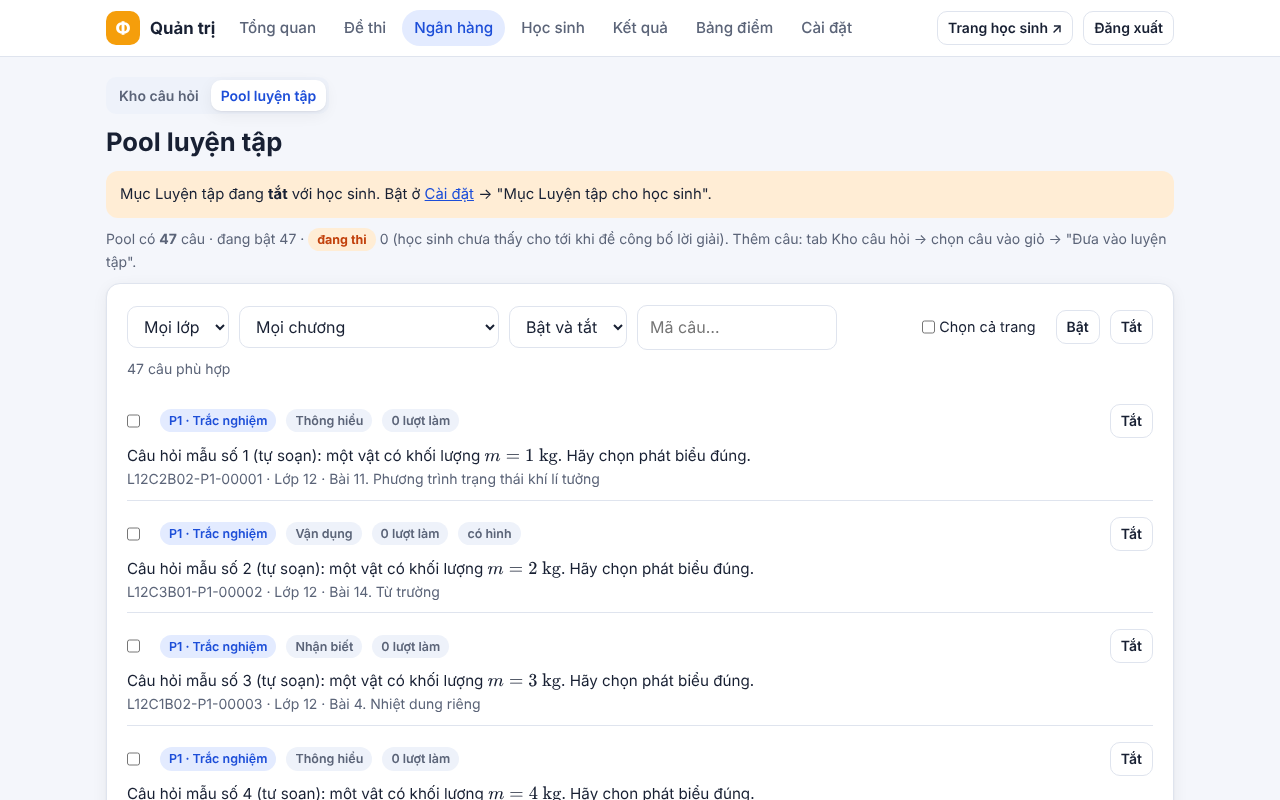
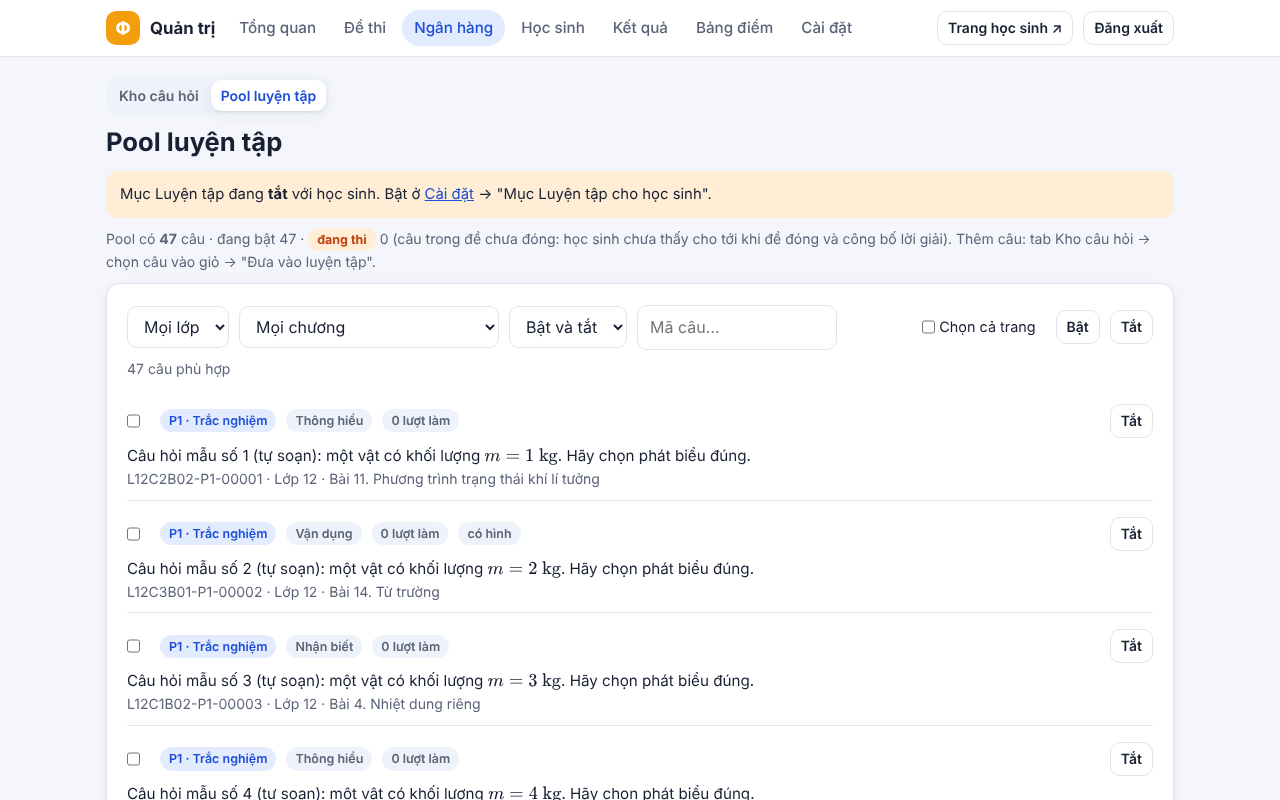
Pha 4: soát code vòng 2 (ĐẠT); kiểm thử vòng 2 đang chạy (lưu tạm)
Claude-Session: https://claude.ai/code/session_01BBCuQ1sSV2ojmqNhomXWAj

Changed region(s): [[0.3125, 0.2812, 0.9062, 0.3125], [0.0938, 0.3125, 0.2812, 0.3438]]

diff --git a/tests/pha4-kiem-thu.test.js b/tests/pha4-kiem-thu.test.js
@@ -255,9 +255,10 @@ t('TC-4.3 practiceStart TU_TAO 10–2–3 trong một bài: đúng 15 câu, đú
   const s = ok(practice(w, null, { kieu: 'TU_TAO', chuong: [ch], bai: [bai], so: { TN: 10, DS: 2, TL: 3 }, phut: 20 }));
   const tp = decodeTok(s.attemptToken).p;
   info(`5 lần: 15 câu (10-2-3), 1200 s; khóa trong token: ${Object.keys(tp).join(',')} (qids = mã kho, chỉ mã hóa base64)`);
-  // chương + bài cùng gửi: máy chủ lấy HỢP (cả chương) — ghi nhận, e2e kiểm giao diện gửi gì khi chọn 1 bài
+  // chương + bài cùng gửi: vòng 2 (N-1) lấy GIAO — xem mục Vòng 2
   const su = ok(practice(w, null, { kieu: 'TU_TAO', chuong: [ch], bai: [bai], so: { TN: 10, DS: 2, TL: 3 }, phut: 20 }));
-  info('gửi chuong=[Chương I] + bai=[Bài 1]: ' + su.questions.filter((q) => by.get(q.noiDung).bai !== bai).length + '/15 câu thuộc bài khác của chương (ngữ nghĩa HỢP)');
+  const outside = su.questions.filter((q) => by.get(q.noiDung).bai !== bai).length;
+  info('gửi chuong=[Chương I] + bai=[Bài 1]: ' + outside + '/15 câu thuộc bài khác của chương');
   // chỉ chọn chương
   const s2 = ok(practice(w, null, { kieu: 'TU_TAO', chuong: [ch], bai: [], so: { TN: 8, DS: 0, TL: 0 }, phut: 10 }));
   assert(s2.questions.every((q) => by.get(q.noiDung).chuong === ch));
@@ -739,6 +740,130 @@ t('TC-4.14 Sửa đề sau khi HS làm (chèn câu lên đầu): câu nhập tay
   setExam(w2, e2, { trangThai: 'DONG' }, (qs) => qs.map((q, i) => (i === 0 ? Object.assign({}, q, { noiDung: 'Câu tay P đã sửa đề bài (tự soạn).' }) : q)));
   const a2 = contents(ok(practice(w2, null, { kieu: 'CAU_SAI' })));
   assert.deepStrictEqual(a2, ['Câu tay Q (tự soạn).'], 'sửa chữ câu tay: ' + JSON.stringify(a2));
+});
+
+
+// ======================= Vòng 2 (f228081) =======================
+console.log('\nVòng 2:');
+const MSG_HIDE = /Đáp án và lời giải sẽ hiện khi đề thi đó kết thúc/;
+t('V2 Xem lại bài luyện có câu đang bị chặn: HS thấy dòng "…sẽ hiện khi đề thi đó kết thúc", điểm giữ nguyên; GV vẫn thấy lời giải; đóng đề thì hiện lại', () => {
+  const w = world({ rows: rowsBai14(5) });
+  const X = pool(w)[0];
+  const s = ok(practice(w, null, { kieu: 'TU_TAO', chuong: [], bai: [], so: { TN: 5 }, phut: 10 }));
+  const r = ok(w.S(null, 'submitExam', { attemptToken: s.attemptToken, answers: answer(w, s, (q) => q.noiDung !== X.noiDung) }));
+  const eid = saveExam(w, { tieuDe: 'Đề NGAY đang mở chứa X', trangThai: 'MO', hienLoiGiai: 'NGAY' }, toQuestions(w, [X.maKho]));
+  const v = ok(w.S(null, 'getResult', { resultId: r.id }));
+  const it = v.items.find((x) => x.noiDung === X.noiDung);
+  assert(it, 'không còn đề bài của X');
+  assert(!it.loiGiai && (it.dapAn == null || it.dapAn === ''), 'HS vẫn thấy đáp án/lời giải X');
+  assert(MSG_HIDE.test(JSON.stringify(it)), 'thiếu dòng báo: ' + JSON.stringify(it).slice(0, 200));
+  assert(it.answer != null && it.answer !== '', 'mất câu trả lời của HS');
+  assert.strictEqual(v.diem, r.diem); assert.strictEqual(v.soCauDung, r.soCauDung);
+  const others = v.items.filter((x) => x !== it);
+  assert(others.every((x) => x.loiGiai), 'câu khác mất lời giải');
+  const vt = ok(w.A('getResult', { resultId: r.id }));
+  const itT = vt.items.find((x) => x.noiDung === X.noiDung);
+  assert(itT && itT.loiGiai && itT.dapAn, 'GV không thấy lời giải');
+  setExam(w, eid, { trangThai: 'DONG' });
+  const v2 = ok(w.S(null, 'getResult', { resultId: r.id }));
+  const it2 = v2.items.find((x) => x.noiDung === X.noiDung);
+  assert(it2.loiGiai && it2.dapAn && !MSG_HIDE.test(JSON.stringify(it2)), 'đóng đề mà chưa hiện lại lời giải');
+  info(`HS: "${(JSON.stringify(it).match(/[^"]*kết thúc[^"]*/) || [''])[0]}"; điểm ${v.diem} = ${r.diem}; GV thấy lời giải; đóng đề → HS thấy lời giải`);
+});
+
+t('V2 "Luyện câu đã sai" chỉ lấy câu của đề đã đóng (NGAY đang mở: không; hết hạn hoặc đóng: có)', () => {
+  const w = world({ rows: K.bigRows(30) });
+  const eOpen = saveExam(w, { tieuDe: 'Đề NGAY mở', trangThai: 'MO', hienLoiGiai: 'NGAY' }, [manual('Câu tay đề mở (tự soạn).')]);
+  const eExp = saveExam(w, { tieuDe: 'Đề sẽ hết hạn', trangThai: 'MO', hienLoiGiai: 'SAU_HAN' }, [manual('Câu tay đề hết hạn (tự soạn).')]);
+  doExam(w, null, eOpen, () => true); doExam(w, null, eExp, () => true);
+  const r0 = practice(w, null, { kieu: 'CAU_SAI' });
+  const set0 = r0.ok ? contents(r0.data) : [];
+  assert(!set0.includes('Câu tay đề mở (tự soạn).') && !set0.includes('Câu tay đề hết hạn (tự soạn).'), 'có câu của đề chưa đóng: ' + set0);
+  setExam(w, eExp, { ketThuc: new Date(Date.now() - 60e3).toISOString() });
+  setExam(w, eOpen, { trangThai: 'DONG' });
+  const set1 = contents(ok(practice(w, null, { kieu: 'CAU_SAI' })));
+  assert(set1.includes('Câu tay đề mở (tự soạn).') && set1.includes('Câu tay đề hết hạn (tự soạn).'), 'đề đã đóng/hết hạn mà chưa có câu: ' + set1);
+  info(`đang mở: ${r0.ok ? set0.length + ' câu' : '"' + r0.error + '"'}; sau khi đóng + hết hạn: ${set1.length} câu`);
+});
+
+t('V2 (N-1) Chọn cả chương và bài → lấy GIAO', () => {
+  const w = world({ rows: K.bigRows(300) });
+  const by = new Map(pool(w).map((p) => [p.noiDung, p]));
+  const s = ok(practice(w, null, { kieu: 'TU_TAO', chuong: ['Chương I. Vật lí nhiệt'], bai: ['Bài 1. Cấu trúc của chất. Sự chuyển thể'], so: { TN: 10, DS: 2, TL: 3 }, phut: 20 }));
+  assert(s.questions.every((q) => by.get(q.noiDung).bai === 'Bài 1. Cấu trúc của chất. Sự chuyển thể'), 'có câu ngoài bài');
+  const x = practice(w, null, { kieu: 'TU_TAO', chuong: ['Chương II. Khí lí tưởng'], bai: ['Bài 1. Cấu trúc của chất. Sự chuyển thể'], so: { TN: 5 }, phut: 10 });
+  info('chương II + bài thuộc chương I: ' + (x.ok ? x.data.questions.length + ' câu' : '"' + x.error + '"'));
+  assert(!x.ok || x.data.questions.length === 0, 'giao rỗng mà vẫn ra câu');
+});
+
+t('V2 (N-2) Tắt luyện tập vẫn xem được bài luyện cũ (myResults luyen + getResult LT)', () => {
+  const w = world();
+  const s = ok(practice(w, null, { kieu: 'TU_TAO', chuong: [], bai: [], so: { TN: 5 }, phut: 10 }));
+  const r = ok(w.S(null, 'submitExam', { attemptToken: s.attemptToken, answers: answer(w, s) }));
+  K.setSetting(w.g, { CHO_LUYEN_TAP: 'KHONG' });
+  const l = ok(w.S(null, 'myResults', { loai: 'luyen' }));
+  const v = ok(w.S(null, 'getResult', { resultId: r.id }));
+  assert(l.some((x) => x.id === r.id) && v.items.every((x) => x.loiGiai));
+  assert(OFF_MSG.test(w.S(null, 'practiceMeta').error));
+});
+
+t('V2 (R-6) Pool vượt 3 000 câu đang bật bị từ chối, không ghi gì', () => {
+  const w = world({ rows: K.bigRows(3010), sync: false });
+  const ms = w.kho.rows.map((r) => r[0]);
+  w.g._resetStats();
+  const r1 = w.A('adminPracticeSync', { filter: {}, mode: 'them' });
+  const wr1 = w.g._stats.writes.LuyenTap || 0;
+  assert(!r1.ok, '3 010 câu được nhận'); assert.strictEqual(wr1, 0, 'đã ghi ' + wr1 + ' lần'); assert.strictEqual(w.g._sheets.LuyenTap.getLastRow(), 1);
+  info('3 010 câu: "' + r1.error + '"');
+  sync(w, { maKho: ms.slice(0, 2990), mode: 'them' });
+  assert.strictEqual(pool(w).length, 2990);
+  w.g._resetStats();
+  const r2 = w.A('adminPracticeSync', { maKho: ms.slice(2990, 3010), mode: 'them' });
+  assert(!r2.ok, '2 990 + 20 được nhận'); assert.strictEqual(w.g._stats.writes.LuyenTap || 0, 0); assert.strictEqual(pool(w).length, 2990);
+  // tắt 30 câu rồi thêm 20 → 2 980 bật → được
+  ok(w.A('adminPracticeToggle', { maKho: ms.slice(0, 30), bat: 'KHONG' }));
+  const r3 = sync(w, { maKho: ms.slice(2990, 3010), mode: 'them' });
+  assert.strictEqual(r3.them, 20); assert.strictEqual(pool(w).filter((p) => p.bat === 'CO').length, 2980);
+  // "thay" bằng đúng 3 000 câu → được
+  const r4 = w.A('adminPracticeSync', { maKho: ms.slice(0, 3000), mode: 'thay' });
+  info(`2 990 + 20: "${r2.error}"; tắt 30 rồi thêm 20: them=${r3.them}; "thay" 3 000 câu: ${r4.ok ? 'được' : '"' + r4.error + '"'}`);
+});
+
+t('V2 (R-5) Nộp lại cùng token không thêm hàng; HS khác nộp token không ghi', () => {
+  const w = world({ classes: ['12A2'] });
+  const s = ok(practice(w, null, { kieu: 'TU_TAO', chuong: [], bai: [], so: { TN: 5 }, phut: 10 }));
+  const a = ok(w.S(null, 'submitExam', { attemptToken: s.attemptToken, answers: answer(w, s) }));
+  const n = KQLT(w);
+  for (let i = 0; i < 3; i++) { const b = w.S(null, 'submitExam', { attemptToken: s.attemptToken, answers: {} }); if (b.ok) assert.strictEqual(b.data.id, a.id); }
+  assert(!w.S('12A2', 'submitExam', { attemptToken: s.attemptToken, answers: {} }).ok);
+  assert.strictEqual(KQLT(w), n); assert(a.id.length > 20, 'mã bài ' + a.id);
+  info('mã bài mới: ' + a.id + ' (' + a.id.length + ' ký tự)');
+});
+
+t('V2 Mã bài cũ (6 ký tự): bài luyện và bài thi dạng cũ vẫn mở được', () => {
+  const w = world();
+  // bài luyện: đổi mã bài trong sheet về dạng cũ LT + yyMMddHHmmss + 6 ký tự
+  const s = ok(practice(w, null, { kieu: 'TU_TAO', chuong: [], bai: [], so: { TN: 5 }, phut: 10 }));
+  const r = ok(w.S(null, 'submitExam', { attemptToken: s.attemptToken, answers: answer(w, s) }));
+  const d = w.g._sheets.KetQuaLuyenTap._data(); const ci = d[0].indexOf('Mã bài');
+  const oldId = 'LT261119140624' + '4C9BC4';
+  d[d.length - 1][ci] = oldId;
+  const v = ok(w.S(null, 'getResult', { resultId: oldId }), 'getResult bài luyện mã cũ');
+  assert.strictEqual(v.items.length, 5); assert(v.items.every((x) => x.loiGiai));
+  assert(ok(w.S(null, 'myResults', { loai: 'luyen' })).some((x) => x.id === oldId));
+  // bài thi do máy chủ 1.0.0 ghi (mã cũ, KetQua thiếu cột Mục tiêu)
+  const path = require('path');
+  const old = createContext({ quiet: true, codePath: path.join(__dirname, 'fixtures', 'Code-1.0.0.gs') }); old.setup();
+  const ot = ok(old.call('loginPin', { studentId: 'HS0001', pin: '0101' })).token;
+  const os = ok(old.call('startExam', { token: ot, examId: 'DEMAU' }));
+  const orr = ok(old.call('submitExam', { token: ot, attemptToken: os.attemptToken, answers: { 1: 'C' } }));
+  const g2 = createContext({ quiet: true }); g2.setup();
+  g2._sheets.KetQua._setData(old._sheets.KetQua._data());
+  const t2 = ok(g2.call('loginPin', { studentId: 'HS0001', pin: '0101' })).token;
+  const ov = ok(g2.call('getResult', { token: t2, resultId: orr.id }), 'getResult bài thi 1.0.0');
+  assert.strictEqual(ov.diem, orr.diem);
+  assert(ok(g2.call('myResults', { token: t2 })).some((x) => x.id === orr.id));
+  info(`bài luyện mã cũ ${oldId}: mở được, 5 câu có lời giải; bài thi 1.0.0 ${orr.id}: mở được, điểm ${ov.diem}`);
 });
 
 // ---------- tổng ----------

diff --git a/tests/pha4-kiem-thu.e2e.js b/tests/pha4-kiem-thu.e2e.js
@@ -199,6 +199,7 @@ async function runNew(browser) {
     const resText = await mainText(st);
     const nLG = (resText.match(/Lời giải mẫu/g) || []).length;
     const hash = await st.evaluate(() => location.hash);
+    const firstResultId = hash.replace('#/ket-qua/', '');
     verdict('TC-4.4 (giao diện)', f.filled === 10 && score === expectTxt && /#\/ket-qua\/LT/.test(hash) && /Luyện tập/.test(resText) && /không tính vào bảng xếp hạng/.test(resText),
       `điền ${f.filled}/10; điểm "${score}" (tính tay ${f.goc}/${f.max} → ${expectTxt}); ${hash}; nhãn "Luyện tập · … không tính vào bảng xếp hạng"`);
     // Xem lời giải: mở các câu (bấm "Câu cần xem lại" nếu cần) → đếm lời giải hiển thị
@@ -278,9 +279,21 @@ async function runNew(browser) {
     const ad = await actx.newPage(); watchErrors(ad, errors, 'admin'); await routeCdn(ad);
     const dialogs = []; ad.on('dialog', (d) => { dialogs.push(d.message()); d.accept(); });
     // Đề SAU_HAN đang mở chứa X (một câu trong pool)
-    const X = 'L12C3B01-P1-00008';
+    // X = một câu P1 của bài luyện đầu tiên (để thử luôn xem lại bài cũ khi X đang thi — vòng 2)
+    const X = BY_ND.get(s1.questions.find((q) => q.loai === 'TN').noiDung)[0];
+    const xText = s1.questions.find((q) => q.loai === 'TN').noiDung;
     const xq = (await api(B, 'adminBankToQuestions', { token: tTok, maKho: [X] })).questions;
     await api(B, 'adminSaveExam', { token: tTok, exam: { tieuDe: 'Đề đang thi có X', lop: '', thoiGian: 15, trangThai: 'MO', hienLoiGiai: 'SAU_HAN' }, questions: xq });
+    // Vòng 2: HS mở lại bài luyện đầu tiên trong lúc X đang thi
+    await st.goto(B + '/#/ket-qua/' + firstResultId); await st.waitForSelector('.score-ring'); await st.waitForTimeout(LAT + 600);
+    const rvTxt = await mainText(st);
+    const rvScore = await st.$eval('.score-ring b', (e) => e.textContent.trim());
+    await st.evaluate(() => { const x = [...document.querySelectorAll('main *')].find((e) => /sẽ hiện khi đề thi đó kết thúc/.test(e.textContent) && e.children.length < 4); if (x) x.scrollIntoView({ block: 'center' }); });
+    await shot(st, '18-xem-lai-cau-dang-thi');
+    const nLGrv = (rvTxt.match(/Lời giải mẫu/g) || []).length;
+    verdict('V2 xem lại câu đang thi (giao diện)', /Đáp án và lời giải sẽ hiện khi đề thi đó kết thúc/.test(rvTxt) && rvScore === expectTxt && nLGrv === 9,
+      `bài luyện cũ khi X đang thi: có dòng "…sẽ hiện khi đề thi đó kết thúc": ${/sẽ hiện khi đề thi đó kết thúc/.test(rvTxt)}; điểm "${rvScore}" (lúc nộp ${expectTxt}); ${nLGrv}/10 lời giải hiện`);
+    void xText;
     const meta1 = await api(B, 'practiceMeta', { token: sTok });
     const n1 = meta1.cay.reduce((s, c) => s + c.dem.TN + c.dem.DS + c.dem.TL, 0);
     await adminLogin(ad, B, srv.pw);
@@ -330,6 +343,9 @@ async function runNew(browser) {
     await api(B, 'adminSaveExam', { token: tTok, exam: Object.assign({}, full.exam, { trangThai: 'DONG' }), questions: full.questions });
     const n5 = (await api(B, 'practiceMeta', { token: sTok })).cay.reduce((s, c) => s + c.dem.TN + c.dem.DS + c.dem.TL, 0);
     verdict('TC-4.13 (giao diện)', n5 === n2 + 1, `đóng đề → HS thấy ${n5} câu (X trở lại)`);
+    await st.goto(B + '/#/'); await st.goto(B + '/#/ket-qua/' + firstResultId); await st.waitForSelector('.score-ring'); await st.waitForTimeout(LAT + 600);
+    const rv2 = await mainText(st);
+    verdict('V2 xem lại câu đang thi (giao diện)', !/sẽ hiện khi đề thi đó kết thúc/.test(rv2) && (rv2.match(/Lời giải mẫu/g) || []).length === 10, `đóng đề → mở lại bài: ${(rv2.match(/Lời giải mẫu/g) || []).length}/10 lời giải, không còn dòng báo`);
     await actx.close();
     verdict('Không lỗi JS', errors.length === 0, errors.length ? errors.join(' | ').slice(0, 500) : 'không có pageerror / console error (HS + GV)');
     void tBefore;
@@ -343,6 +359,13 @@ async function runOff(browser) {
   const srv = await startServer(PORT_OFF, { LATENCY_MS: String(LAT), PRACTICE: '0' });
   try {
     const B = srv.base;
+    // Vòng 2 (N-2): có sẵn 1 bài luyện làm khi còn bật, rồi giáo viên tắt
+    const tTok = (await api(B, 'loginAdminPassword', { password: srv.pw })).token;
+    await api(B, 'adminSaveSettings', { token: tTok, settings: { CHO_LUYEN_TAP: 'CO' } });
+    const sTok = (await api(B, 'loginPin', { studentId: 'HS0001', pin: '0101' })).token;
+    const ps = await api(B, 'practiceStart', { token: sTok, kieu: 'TU_TAO', bai: [], so: { TN: 5 }, phut: 10 });
+    const pr = await api(B, 'submitExam', { token: sTok, attemptToken: ps.attemptToken, answers: {} });
+    await api(B, 'adminSaveSettings', { token: tTok, settings: { CHO_LUYEN_TAP: 'KHONG' } });
     const ctx = await browser.newContext({ viewport: { width: 1280, height: 800 }, deviceScaleFactor: 1 });
     const st = await ctx.newPage(); watchErrors(st, errors, 'hs-off'); await routeCdn(st);
     const log = netLog(st);
@@ -360,8 +383,17 @@ async function runOff(browser) {
     const pages = ['#/', '#/lich-su', '#/thong-ke', '#/bang-xep-hang'];
     const res = [];
     for (const h of pages) { const e0 = errors.length; await st.goto(B + '/' + h); await st.waitForTimeout(LAT + 700); res.push(h + ':' + (errors.length === e0 && (await mainText(st)).length > 20 ? 'ok' : 'LỖI')); }
-    const hist = !!(await st.$('#histSeg'));
-    verdict('TC-4.10 (giao diện)', res.every((x) => /ok$/.test(x)), `các trang khác: ${res.join(' ')}; Lịch sử có bộ lọc Đề thi/Luyện tập: ${hist}`);
+    verdict('TC-4.10 (giao diện)', res.every((x) => /ok$/.test(x)), `các trang khác: ${res.join(' ')}`);
+    await st.goto(B + '/#/lich-su'); await st.waitForTimeout(LAT + 800);
+    const histSegOff = !!(await st.$('#histSeg [data-h="luyen"]'));
+    let oldOk = false; let oldTxt = '';
+    if (await st.$('#histSeg [data-h="luyen"]')) {
+      await st.click('#histSeg [data-h="luyen"]'); await st.waitForTimeout(LAT + 700);
+      await shot(st, '19-tat-luyen-tap-lich-su');
+      const link = await st.$(`a[href="#/ket-qua/${pr.id}"]`);
+      if (link) { await link.click(); await st.waitForSelector('.score-ring'); await st.waitForTimeout(LAT + 500); oldTxt = await mainText(st); oldOk = (oldTxt.match(/Lời giải mẫu/g) || []).length === 5; }
+    }
+    verdict('V2 tắt luyện tập vẫn xem bài cũ (giao diện)', histSegOff && oldOk, `Lịch sử có bộ lọc Đề thi/Luyện tập: ${histSegOff}; mở bài luyện cũ ${pr.id} từ Lịch sử → ${(oldTxt.match(/Lời giải mẫu/g) || []).length}/5 lời giải`);
     const ad = await ctx.newPage(); watchErrors(ad, errors, 'admin-off'); await routeCdn(ad);
     await adminLogin(ad, B, srv.pw);
     await ad.click('a[data-nav="bank"]'); await ad.waitForTimeout(LAT + 900);

diff --git a/docs/bao-cao/pha-4-soat.md b/docs/bao-cao/pha-4-soat.md
@@ -128,3 +128,63 @@ Có 1 phát hiện **Nặng** (R-1). R-1 do đặc tả chưa nói rõ trường
 2. Sửa R-2; thêm test xem lại bài luyện cũ khi câu đang bị chặn.
 3. R-3: đọc theo học sinh hoặc đệm theo học sinh, hoặc ít nhất đo và ghi rủi ro.
 4. R-5 (một dòng). R-4 và R-6 tùy chọn.
+
+---
+
+## Vòng 2
+
+Diff soát: `git diff 39eff7f..f228081` (commit `f228081`). Đặc tả bổ sung ở `46739d8`: câu chỉ vào luyện tập khi đề **đã đóng** và `canReveal_` = true; khi xem lại bài luyện thì ẩn lời giải của câu đang bị chặn. Ngày: 19/11/2026.
+
+### Tóm tắt cho giáo viên (vòng 2)
+- Đã sửa lỗ hổng chính. Câu của đề còn mở (kể cả đề để "Hiện lời giải ngay") không còn xuất hiện trong Luyện tập. Học sinh xem lại bài luyện cũ cũng không thấy đáp án của câu đang nằm trong đề chưa đóng.
+- Đề không đặt giờ đóng thì câu của đề sẽ ẩn khỏi Luyện tập cho tới khi thầy bấm đóng đề. Tab Pool có nhãn "đang thi" để thầy biết.
+- Còn một điểm nên theo dõi khi phát hành: học sinh đã làm rất nhiều bài luyện thì trang Luyện tập có thể mở chậm hơn. Điểm này cần đo trên máy chủ thật ở Pha 6.
+
+### Kết luận vòng 2: **ĐẠT**
+Không còn phát hiện Nặng. Có 1 phát hiện Vừa mới (V2-1, hiệu năng, cần đo ở Pha 6) và 2 phát hiện Nhẹ.
+
+### Đã kiểm lại
+- **Chạy lại `scratchpad/soat4/repro.js`**:
+  - A: đề "NGAY" đang mở → `blocked[X] = true`; X xuất hiện **0/30** lần.
+  - B: xem lại bài luyện cũ khi X nằm trong đề SAU_HAN đang mở → không có `dapAn`, không có `loiGiai`.
+  - C: `practiceMeta`, `practiceStart`, nộp bài không còn đọc cả trang `KetQuaLuyenTap` hay `KetQua`.
+- **Test**:
+  - Đạt: `pha4` 22/22; `pha4-kiem-thu.test.js` 26/26 (file của người kiểm thử, chỉ chạy, không sửa); `backend` 13/13, `importer`, `bank` 30/30, `cache` 17/17, `pha1-kiem-thu` 29/29, `pha2-kiem-thu` 31/31, `common-cache` 5/5.
+  - `pha4.e2e.js` (cổng 8795, ảnh lưu vào thư mục nháp): đạt cả máy chủ mới và 1.0.0.
+  - `pha4.test.js` chập chờn ở TC-4.6: 1 lần trượt trong 16 lần chạy (V2-2).
+
+| Mã | Trạng thái | Ghi chú |
+|---|---|---|
+| R-1 / K-1 (Nặng) | **Đã sửa** | `examLocked_` (`Code.gs` 1978–1987): chỉ mở khi `canReveal_` **và** (`DONG` hoặc `MO` đã quá `ketThuc`). Đề NHAP, không có trạng thái, chưa mở, đang mở (mọi chế độ), "Không hiện" đều chặn. Đệm `blockedBankIds_` vẫn hết hạn ở mốc `batDau`/`ketThuc` gần nhất, đủ cho trường hợp đề hết hạn. CAU_SAI (`open()`) và `buildPracticeView_` dùng cùng hàm này. Đúng đặc tả bổ sung. |
+| R-2 / K-2 (Vừa) | **Đã sửa** | `buildPracticeView_`: với học sinh, câu có mã kho đang bị chặn **lúc xem**, hoặc câu đề thi của đề còn khóa, thì đặt `an = true` và không gửi `dapAn`/`loiGiai`. Giáo viên vẫn thấy. Kết quả trả về ngay khi nộp cũng đi qua hàm này. `common.js` hiện ghi chú qua `esc()`, phương án qua `rich()`. Học sinh vẫn biết mình đúng hay sai qua điểm từng câu, điều này đúng đặc tả ("điểm vẫn chấm"). |
+| R-3 (Vừa) | **Đã sửa, kèm V2-1** | `rowsWhere_` đọc cột khóa rồi chỉ đọc các hàng khớp. Đã so trên shim: kết quả **trùng hoàn toàn** với `readTable_(…,{fresh:true}).filter(...)` (102 hàng xen kẽ trong 3 000 hàng). Hàm này chỉ đọc, không dùng ở đường ghi theo số hàng. `afterWrite_` xóa bộ nhớ `__si_`/`__rw_` của trang vừa ghi. `practiceResultExists_` bỏ `__si_` và đọc lại `lastRow` trong khóa nên kiểm trùng vẫn đúng. `practiceUsage_` chỉ đọc cột Chi tiết. |
+| R-4 (Nhẹ) | Chấp nhận | Không đổi. |
+| R-5 (Nhẹ) | **Đã sửa** | `view()` lọc theo mã bài **và** `studentId`; mã bài dùng 12 ký tự hex. Kết quả cũ không bị ảnh hưởng: `getResult` nhận mọi mã `^LT` và tìm theo đúng chuỗi mã. Mã chỉ được tạo lúc nộp, và vòng 1 chưa từng chạy trên máy chủ thật (phát hành ở Pha 6), nên không có mã độ dài cũ nào trên Sheet. Trường hợp lý thuyết token nộp trước và sau khi đổi mã thì `view()` báo "Lượt làm bài không hợp lệ" chứ không ghi trùng. |
+| R-6 (Nhẹ) | **Đã sửa** | `poolWrite_` đếm tổng câu đang bật sau lần ghi và báo lỗi khi vượt 3 000. Lỗi được báo trong khóa, trước mọi lần ghi, nên không ghi dở. |
+| N-1 | Đúng | Gửi cả chương và bài thì lấy giao. Giao diện chỉ gửi `bai`, NHANH đặt `chuong = []`, nên không đổi hành vi. |
+| N-2 | Đúng | Vẽ lại Lịch sử khi `features` về sau lần vẽ đầu. `myResults` và `getResult LT` không bị chặn khi tắt luyện tập, đúng đặc tả. |
+
+### Phát hiện mới
+
+#### V2-1 — **Vừa** — `rowsWhere_` đổi một lần đọc lớn thành nhiều lần `getValues`, không còn dùng đệm
+- **Vị trí**: `Code.gs` 2045–2068 (`rowsWhere_`) và `readRowRuns_` (2117): mỗi khối hàng liền nhau là 1 lần `getRange().getValues()`.
+- **Mô tả**:
+  - Bài của một học sinh nằm rải rác giữa bài của các em khác, nên gần như **mỗi bài là một lần gọi**. Đo trên shim (`scratchpad/soat4/calls.js`, 3 000 hàng, HS0001 có 101–102 bài xen kẽ): `practiceMeta`, `practiceStart` mỗi lời gọi tốn 102 lần `getValues` trên KetQuaLuyenTap, nộp bài 105 lần, `myResults luyen` 103 lần.
+  - `practiceMeta` và CAU_SAI còn đọc `KetQua` theo cách này.
+  - Trên Apps Script, mỗi lần `getValues` mất khoảng vài chục ms. Một em luyện nhiều (khoảng 100 bài) có thể phải chờ vài giây cho mỗi thao tác. Trước vòng 2, bảng dưới 900 KB nằm trong đệm 60 giây, bảng lớn hơn thì 1 lần đọc cả trang.
+  - Số ô đọc đã giảm (đúng mục tiêu R-3), nhưng số lần gọi máy chủ tăng theo số bài của em đó. Báo cáo người làm chỉ đo số ô.
+- **Đề xuất**:
+  - Khi số khối hàng vượt một ngưỡng (ví dụ 10), đọc một lần từ hàng khớp đầu tiên tới hàng khớp cuối cùng hoặc cả vùng.
+  - Hoặc đệm kết quả `rowsWhere_` theo học sinh với khóa thế hệ của trang.
+  - Tối thiểu: đưa "số lần `getValues`" vào bảng số đo và danh sách đo Pha 6.
+  - Không chặn gộp pha.
+
+#### V2-2 — Nhẹ — TC-4.6 trong `tests/pha4.test.js` chập chờn
+- **Vị trí**: `tests/pha4.test.js` 250–257.
+- **Mô tả**: bài TU_TAO lấy ngẫu nhiên 5 câu Phần I từ toàn pool, nên có thể bốc trúng X. Học sinh lại trả lời **đúng** mọi câu trừ Y, nên X bị rút khỏi tập câu sai và dòng `assert(set.includes(X))` trượt. Đã gặp 1/16 lần (`có X: L12C2B02-P1-00001,DE…#2`). Đây là lỗi của bài test, không phải lỗi mã.
+- **Đề xuất**: trả lời sai cả X (`q === Y || q === X ? w.wrong(q) : w.right(q)`), hoặc chọn bài không chứa X.
+
+#### V2-3 — Nhẹ — Học sinh suy ra được đáp án câu bị ẩn qua cờ đúng/sai
+- **Vị trí**: `buildPracticeView_` vẫn gửi `correct`, `score`, `nCorrect` cho câu có `an = true`.
+- **Mô tả**: với câu Phần I, em chọn A và được "✓ Đúng" thì biết đáp án là A. Mức lộ này nhỏ: em đã làm câu đó, và đặc tả chọn "điểm vẫn chấm".
+- **Đề xuất**: chấp nhận. Nếu muốn chặt hơn thì ẩn cả nhãn đúng/sai của câu `an` (điểm tổng vẫn giữ).
